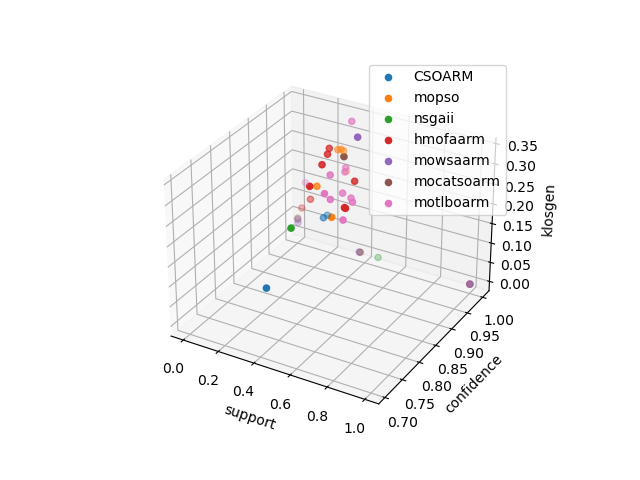
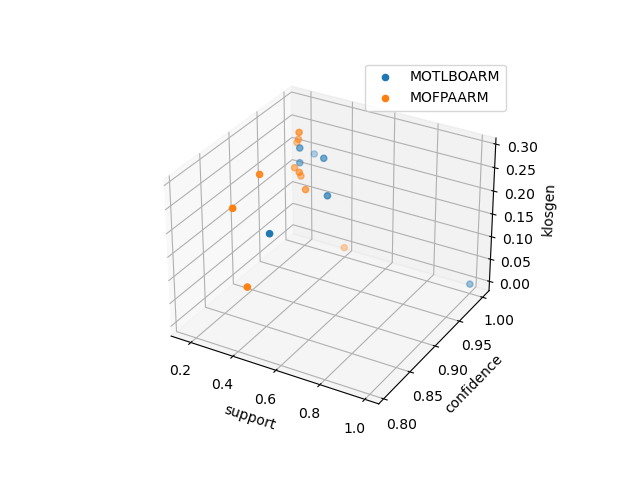
add flower polynisation algorithm

diff --git a/src/Algorithm/MOFPAARM.py b/src/Algorithm/MOFPAARM.py
@@ -1,0 +1,70 @@
+from src.Utils.Fitness import *
+from src.Utils.Population import *
+import matplotlib.pyplot as plt
+import pandas as pd
+from scipy.spatial import distance
+from src.Utils.Graphs import *
+from time import time
+import numpy as np
+from scipy.stats import levy
+
+class MOFPAARM:
+    def __init__(self,nbItem,populationSize,nbIteration,nbObjectifs,objectiveNames,data,
+                P = 0.5,lambd= 1.5, gamma = 0.5,nbChanges=5,
+                 save=True,display=True,path='Figures/'):
+        self.population = Population('horizontal_binary', populationSize, nbItem)
+        self.nbItem = nbItem
+        self.nbIteration = nbIteration
+        self.nbObjectifs = nbObjectifs
+        self.fitness = Fitness('horizontal_binary', objectiveNames, populationSize )
+        self.P =P
+        self.lambd = lambd
+        self.bestSolution = []
+        self.bestSolutionScore = 0
+        self.gamma = gamma
+        self.nbChanges =nbChanges
+        self.executionTime = 0
+        self.fitness.ComputeScorePopulation(self.population.population, data)
+        self.UpdateBestSolution()
+
+    def Levy(self):
+        return levy.rvs(loc=-1,scale=0.5,size=self.nbItem*2)
+
+
+
+    def UpdateBestSolution(self):
+        indexs = np.arange(self.population.populationSize)
+        paretoFront = np.ones(self.population.populationSize)
+        for i in range(self.population.populationSize):
+            for j in range(self.population.populationSize):
+                domination = self.fitness.Domination(self.fitness.scores[i], self.fitness.scores[j])
+                if domination == 1:
+                    paretoFront[i] = 0
+                    break
+        candidate = indexs[paretoFront == 1]
+        index = rd.choice(candidate)
+        self.bestSolution = copy.deepcopy(self.population.population[index])
+
+    def Run(self,data,i):
+        t1 = time()
+        r = rd.random()
+        if r>self.P:
+            for i in range(self.population.populationSize):
+                n = self.population.population[i] +self.gamma * self.Levy()*(self.bestSolution-self.population.population[i])
+                score = self.fitness.ComputeScoreIndividual(n,data)
+                domination = self.fitness.Domination(score, self.fitness.scores[i])
+                if domination == -1:
+                    self.population.population[i] = copy.deepcopy(n)
+        else:
+            for i in range(self.population.populationSize):
+                pol1 = self.population.population[rd.randint(0,self.population.populationSize-1)]
+                pol2 = self.population.population[rd.randint(0, self.population.populationSize - 1)]
+                n = self.population.population[i] + rd.random()*(pol1-pol2)
+                score = self.fitness.ComputeScoreIndividual(n, data)
+                domination = self.fitness.Domination(score, self.fitness.scores[i])
+                if domination == -1:
+                    self.population.population[i] = copy.deepcopy(n)
+
+        self.fitness.ComputeScorePopulation(self.population.population,data)
+        self.UpdateBestSolution()
+        self.executionTime = time() - t1

diff --git a/main.py b/main.py
@@ -9,6 +9,7 @@ from src.Algorithm.MOSAARM import *
 from src.Algorithm.MOWSAARM import *
 from src.Algorithm.MOCatSOARM import *
 from src.Algorithm.MOTLBOARM import *
+from src.Algorithm.MOFPAARM import *
 
 from src.Utils.Performances import *
 
@@ -16,8 +17,8 @@ nbIteration = 20
 populationSize = 200
 objectiveNames = ['support','confidence','klosgen']
 criterionList = ['scores','execution time']
-#algorithmNameList = ['MOTLBOARM','MOCatSOARM']
-algorithmNameList = ['CSOARM','mopso','nsgaii','hmofaarm','mowsaarm','mocatsoarm','motlboarm']
+algorithmNameList = ['MOTLBOARM','MOFPAARM']
+#algorithmNameList = ['CSOARM','mopso','nsgaii','hmofaarm','mowsaarm','mocatsoarm','motlboarm']
 
 perf = Performances(algorithmNameList,criterionList,objectiveNames)
 data = pd.read_csv('Data/congress.csv')
@@ -31,9 +32,10 @@ mosaarm = MOSAARM(data.shape[1],populationSize,nbIteration,len(objectiveNames),o
 mowsaarm = MOWSAARM(data.shape[1],populationSize,nbIteration,len(objectiveNames),objectiveNames,save=True,display=False,path='Figures/MOWSAARM/')
 mocatsoarm = MOCatSOARM(data.shape[1],populationSize,nbIteration,len(objectiveNames),objectiveNames,save=True,display=False,path='Figures/MOCatSOARM/')
 motlboarm = MOTLBOARM(data.shape[1],populationSize,nbIteration,len(objectiveNames),objectiveNames,save=True,display=False,path='Figures/MOTLBOARM/')
+mofpaarm = MOFPAARM(data.shape[1],populationSize,nbIteration,len(objectiveNames),objectiveNames,data,save=True,display=False,path='Figures/MOFPAARM/')
 
-algorithmList = [csoarm,mopso,nsgaii,hmofaarm,mowsaarm,mocatsoarm,motlboarm]
-#algorithmList = [motlboarm,mocatsoarm]
+#algorithmList = [csoarm,mopso,nsgaii,hmofaarm,mowsaarm,mocatsoarm,motlboarm]
+algorithmList = [motlboarm,mofpaarm]
 for i in range(nbIteration):
     k = 0
     for alg in algorithmList:
